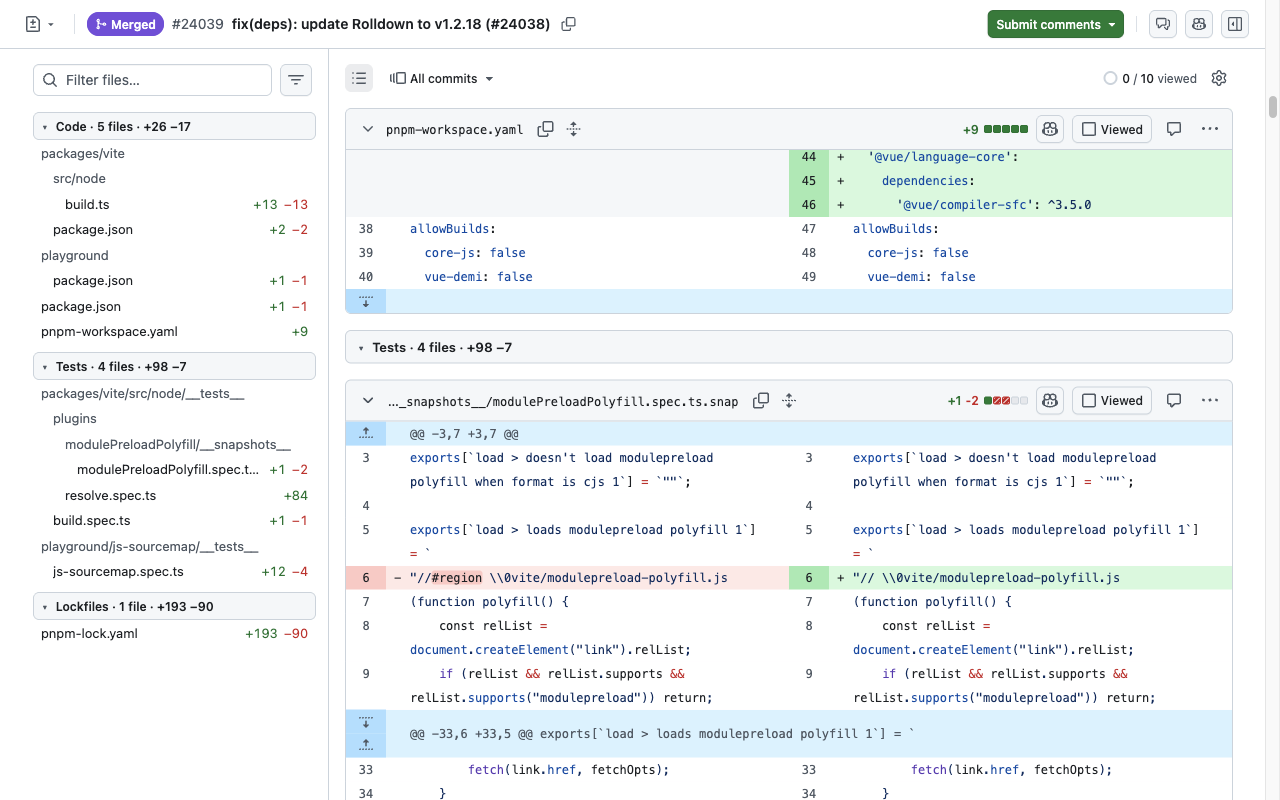
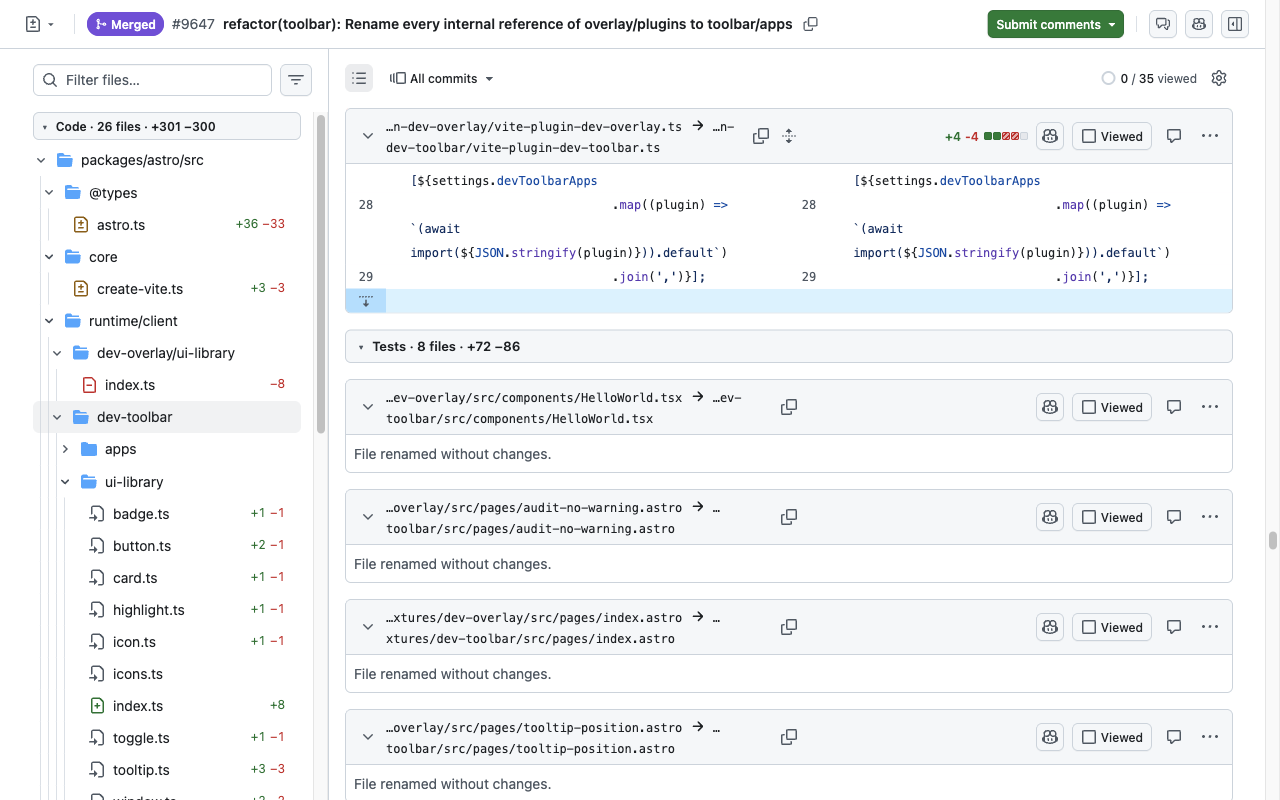
docs: the file tree, file status, the default view and the options page
Store screenshots 3 to 5 are retaken from withastro/astro#9647, which adds,
changes, deletes and renames files. design/ holds the comparison with
GitHub's own tree and the options page before and after.

The README gets back the two lines about the options files and the icons
that an earlier edit dropped.

diff --git a/README.md b/README.md
@@ -23,13 +23,20 @@ A bar above the changed files counts the tests and noise in the diff and offers 
 
 | Mode | What you see | Bar text |
 | --- | --- | --- |
-| **All** (default) | GitHub's own view. | `PR Focus: tests & noise in 5 of 10 files (4 tests, 1 lockfile) · +291 −97` |
-| **Sections** | The code first, then a section for each kind of noise, in the diff and in the file list on the left. | `5 files in sections below (4 tests, 1 lockfile) · +291 −97 · 5 files of code first, +26 −17` |
+| **Sections** (default) | The code first, then a section for each kind of noise, in the diff and in the file list on the left. | `PR Focus: 5 files in sections below (4 tests, 1 lockfile) · +291 −97 · 5 files of code first, +26 −17` |
+| **All** | GitHub's own view. | `PR Focus: tests & noise in 5 of 10 files (4 tests, 1 lockfile) · +291 −97` |
 
 In **Sections**:
 
 - **The diff** has a heading above each section with its file count and line counts (`Code · 5 files · +26 −17`, `Tests · 4 files · +98 −7`). The sections come in the order Code, Tests, Lockfiles, Generated, Custom.
-- **The file list on the left** is PR Focus's own list in the place of GitHub's file tree, with the same sections and headings. Inside a section the files are a folder tree like GitHub's: a chain of folders with nothing else in them is one row (`packages/vite/src/node/__tests__`). Each file shows its added and removed lines. A click goes to the file through GitHub's own link, so the page moves as it does from GitHub's tree.
+- **The file list on the left** is PR Focus's own list in the place of GitHub's file tree, with the same sections and headings. Under each heading is a tree that looks and works like GitHub's own, because its rows are copies of GitHub's rows:
+  - a chevron on each folder opens and closes it, and the open and closed folders are kept for each pull request while the tab lives,
+  - GitHub's folder icons, the same row height, indentation and indent lines, hover color, and light and dark themes,
+  - a chain of folders with nothing else in them is one row (`packages/vite/src/node/__tests__`), as in GitHub's tree,
+  - each file's icon is GitHub's own icon for how the file changed: added in green, changed in amber, deleted in red, renamed in gray. A renamed file shows its new name, and the row's tooltip says the path and the change,
+  - the file the page is at is marked, and the mark follows the scroll (GitHub's own tree only marks a file you clicked),
+  - each file shows its added and removed lines, which GitHub's tree does not,
+  - a click on a file goes through GitHub's own link, so the page moves as it does from GitHub's tree.
 - **A heading folds its section** in both places at once. Folding Code brings the tests to the top.
 - **GitHub's filter still works.** The filter field and its options take files out of the page, and the sections and the list follow.
 - **Viewed files** are dimmed and ticked in the list.
@@ -65,11 +72,11 @@ Stored in `chrome.storage.sync`, so they follow your browser profile. Only the s
 | PRs opened by bots | on | |
 | Draft PRs | on | Never your own drafts. |
 | Titles matching | empty | Invalid patterns are ignored and flagged. A pattern that matches every title is flagged too. |
-| Tests & noise in a PR's changed files | All | All or Sections. The same choice as the buttons above the changed files. |
-| Tests | on | |
+| Changed files of a PR | Sections | Sections or All. The same choice as the buttons above the changed files. |
+| Tests | on | What Sections moves below the code. In All these only change the count in the bar. |
 | Lockfiles | on | |
 | Generated files | on | Includes files GitHub marks as generated. |
-| Custom globs | empty | One per line, read like `.gitignore` lines. |
+| Custom patterns | empty | One per line, read like `.gitignore` lines. |
 | Linear workspace | empty | The part after `linear.app/`; a pasted Linear URL also works. |
 | Linear team keys | empty | Comma or space separated, for example `ENG, OPS`. Empty accepts any key. |
 
@@ -87,6 +94,9 @@ Stored in `chrome.storage.sync`, so they follow your browser profile. Only the s
 - `src/content.css`: the rules that hide and move things. For changed files, `content.js` only marks each file with its kind. The CSS reorders marked files, folds a section and hides GitHub's file tree only while the bar, the section's heading or our own file list is on the page. If one of them cannot be drawn, the page is GitHub's again.
 - **Sections does not move any of GitHub's elements.** GitHub's list of files is a flex column, so CSS `order` puts the code first and each kind below its heading. The headings are the only elements added to that list. React keeps rendering its own children in its own order, and lazily loaded diffs keep loading.
 - **GitHub's file tree is hidden, not changed.** Our list is inserted right before it, and one CSS rule hides whatever follows our list. The list is built from the file headers GitHub has on the page (they are all there before the diffs load) plus the files only the tree lists.
+
+- `src/options.html` / `src/options.js`: the popup and options page (same file). The view of the changed files is a radio group, and the kinds of noise sit under its Sections choice.
+- `icons/`: `icon.svg` is the source of the extension icon, a cat head crossed by one highlighted row (an original drawing, not GitHub's mark). The 16, 32, 48 and 128 px PNGs are renders of it. The 128 px one is 96 px artwork with 16 px of transparent padding, as the Chrome Web Store asks. `design/icon-candidates/` keeps the three candidates that were compared; the icon is `b-cat-row.svg`.
 
 No build step and no dependencies.
 
@@ -115,7 +125,7 @@ Check by hand before each release, with the extension loaded:
 5. The same public list signed out: turn on **Allow in Incognito** on the extension's details page and open the list in an incognito window. Rows are still hidden.
 6. A repository where you can tick rows: select all, and the bar says the hidden rows are shown because selected.
 7. The changed files of a PR with tests and a lockfile, for example `github.com/vitejs/vite/pull/24039/files`: the bar counts them. **Sections** puts the code first with `Code`, `Tests` and `Lockfiles` headings, and the file list on the left shows the same three sections in place of GitHub's tree. **All** brings GitHub's view and tree back.
-8. In Sections: click a file in the list and the page goes to it. Fold `Code` in the list and the code folds in the diff too. Type in GitHub's filter field and both follow.
+8. In Sections: the tree under each heading looks like GitHub's (compare with All). Close and open a folder with its chevron. Click a file and the page goes to it. Scroll the diff and the marked file follows. Fold `Code` in the list and the code folds in the diff too. Type in GitHub's filter field and both follow. On a PR that adds, changes, deletes and renames files, for example `github.com/withastro/astro/pull/9647/files`, the four icons read apart.
 9. On that PR, go to the Commits tab and back to Files changed through GitHub's own tabs: the bar and the mode carry over. Open another PR: the mode is the same.
 10. The same PR signed out (the older files view): Sections works there too.
 
@@ -128,7 +138,9 @@ When you load the unpacked folder for development, switch off any other copy of 
 - **Changed files markup.** Files are read from GitHub's file headers: the path, the `Lines changed: 19 additions & 2 deletions` text for screen readers, and the diff anchor that ties a file to its tree entry. The newer view is found through `data-testid="progressive-diffs-list"`, the older one through `#files .file`. If GitHub renames those, the bar does not appear and every file shows. Checked on 2026-11-24, signed in (newer view, split layout) and signed out (older view, unified layout).
 - **Sections depends on GitHub's list being a flex column.** If GitHub lays the list out another way, files stay in GitHub's order and the headings gather at the top. In the older view the CSS flattens GitHub's batch containers (`.js-diff-progressive-container`, `copilot-diff-entry`) to get one column.
 - **Our file list depends on where GitHub's tree is.** It is found through `ul[aria-label="File Tree"]`. When GitHub's tree is not on the page (you closed the file tree panel), there is no list, and the diff is still in sections.
-- **The list is simpler than GitHub's tree.** Its folders do not fold, it has no file type icons and no marker for the file you are at, and it is not a keyboard tree: Tab moves through the files. All shows GitHub's tree again.
+- **Our tree is copied from GitHub's rows.** A row of ours is a copy of a row of GitHub's tree, found through Primer's unhashed class names (`PRIVATE_TreeView-item-container`, `-toggle`, `-visual`, `-content-text`, `-level-line`). GitHub's styles then draw it. If GitHub renames those, or in the older files view, the same tree is drawn plainly by `content.css`: chevrons, folding, the mark and the status icons work, folder icons and indent lines are missing.
+- **Where our tree differs from GitHub's.** The arrow keys do not move through it: Tab reaches each row, and Enter or Space opens a folder or goes to a file. The list does not scroll by itself to keep the marked file in view. A closed folder's icon is GitHub's closed folder icon, set by its path, because GitHub's tree only holds the icon of the state a folder is in.
+- **Status colors are not GitHub's in two cases.** A file's change is read from the icon GitHub's tree draws for it. GitHub's React tree draws a changed file gray and a renamed one amber. Here a changed file is amber and a renamed one gray, as in GitHub's older tree. Two rules in `content.css` do that.
 - **Sections changes what you see, not GitHub's order.** GitHub's own next and previous file keys and the tab order in the diff follow GitHub's order, so they jump between sections.
 - **Folded sections are not remembered.** They open again when the tab reloads. The mode is remembered.
 - **Viewed is read from the newer view only.** The older view's Viewed checkbox is not read. Viewed state was checked by setting the button's state in the page, not by marking a real file as viewed.

diff --git a/store/listing.md b/store/listing.md
@@ -29,9 +29,9 @@ On pull request lists
 
 In a pull request's changed files
 - Counts the tests, lockfiles and generated files in the diff, with their added and removed lines.
-- Sections: shows the code first, then a section each for tests, lockfiles and generated files. A heading shows each section's size and folds it away.
-- The file list on the left is grouped into the same sections, with each file's added and removed lines. A click goes to the file.
-- All: GitHub's own view. This is the default. Your choice is remembered, and Alt+Shift+F switches it.
+- Sections, the default: shows the code first, then a section each for tests, lockfiles and generated files. A heading shows each section's size and folds it away.
+- The file list on the left is grouped into the same sections. Each section is a tree like GitHub's own: folders open and close, each file shows whether it was added, changed, deleted or renamed and how many lines changed, and the file you are at is marked.
+- All: GitHub's own view. Your choice is remembered, and Alt+Shift+F switches it.
 - You choose what counts: switch each kind off, or add your own file patterns such as *.md or docs/.
 
 Linear
@@ -77,7 +77,7 @@ No
 | Store icon, 128x128 | `icons/icon-128.png` | Ready. 96 px artwork with 16 px of transparent padding. |
 | Screenshot 1, 1280x800 | `store/screenshots/1-noise-hidden.png` | Ready. Bot and draft PRs hidden, with the count bar. |
 | Screenshot 2, 1280x800 | `store/screenshots/2-shown-dimmed.png` | Ready. The same list after **Show them**. |
-| Screenshot 3, 1280x800 | `store/screenshots/3-diff-sections.png` | Ready. A PR's changed files in **Sections**: the bar, the sectioned file list and the code first. |
+| Screenshot 3, 1280x800 | `store/screenshots/3-diff-sections.png` | Ready. A PR's changed files in **Sections**: the bar, the file tree in sections with the four kinds of change, and the code first. |
 | Screenshot 4, 1280x800 | `store/screenshots/4-diff-section-heading.png` | Ready. The same PR further down: the `Tests` heading and the test files. |
 | Screenshot 5, 1280x800 | `store/screenshots/5-diff-code-folded.png` | Ready. The same PR with `Code` folded, so the tests come first. |
 | Small promo tile, 440x280 | | Optional, not made. |
@@ -85,7 +85,7 @@ No
 
 The icon is an original drawing of a cat head crossed by one highlighted row, the pull request in focus. It is not GitHub's Octocat or Invertocat mark and does not reuse their shapes; keep it that way if the icon changes.
 
-Screenshots 1 and 2 are of `github.com/dependabot/dependabot-core/pulls`, and 3 to 5 of `github.com/vitejs/vite/pull/24039`. Both are public repositories, scrolled so the signed-in account in GitHub's header is out of view. Take new screenshots from public repositories only. The store shows at most five screenshots.
+Screenshots 1 and 2 are of `github.com/dependabot/dependabot-core/pulls`, and 3 to 5 of `github.com/withastro/astro/pull/9647`, which adds, changes, deletes and renames files. Both are public repositories, scrolled so the signed-in account in GitHub's header is out of view. Take new screenshots from public repositories only. The store shows at most five screenshots.
 
 There is no screenshot of the Linear button yet. It needs a public repository whose pull request titles carry Linear keys.
 
@@ -147,12 +147,12 @@ The tab is meant for extensions that need credentials. PR Focus needs none, so t
 ```
 1. Sign in to GitHub. (It also works signed out, on public repositories.)
 2. Open https://github.com/dependabot/dependabot-core/pulls. Bot and draft pull requests are hidden. A bar above the list says how many.
-3. Open https://github.com/vitejs/vite/pull/24039/files. A bar above the files counts tests and lockfiles. "Sections" groups the diff and the file list by kind. "All" restores GitHub's view.
+3. Open https://github.com/vitejs/vite/pull/24039/files. The diff and the file list are in sections: Code, Tests, Lockfiles. A bar above the files counts them. "All" restores GitHub's view.
 4. Settings are in the toolbar popup.
 No account, no network requests, no remote code.
 ```
 
-The store limits this field to 500 characters. The text above is 488.
+The store limits this field to 500 characters. The text above is 487.
 
 ## Before submitting
 
